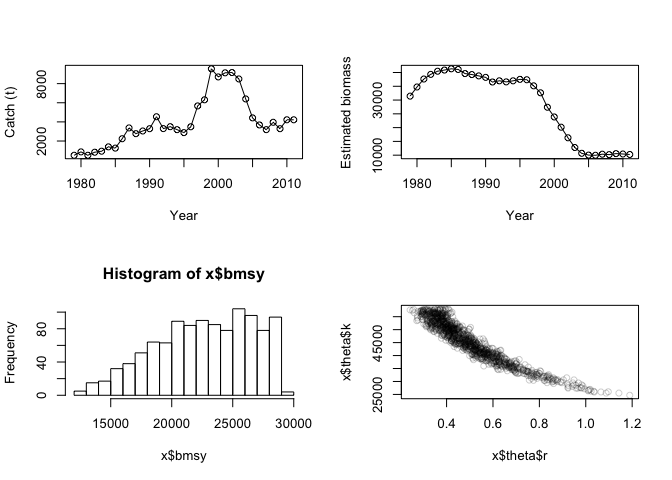
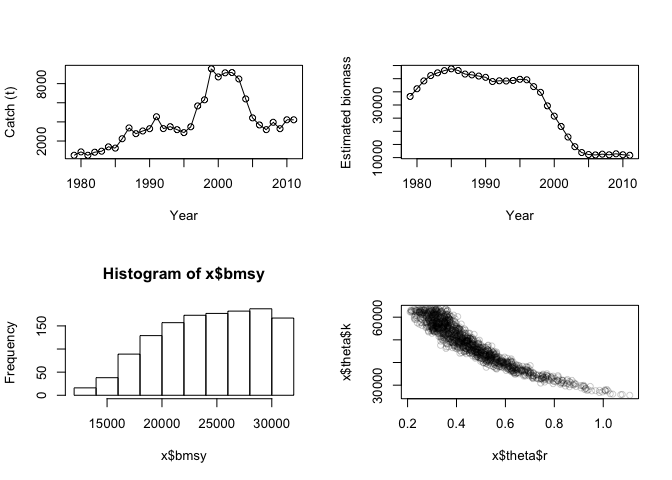
Add citation

diff --git a/README.md b/README.md
@@ -20,25 +20,26 @@ The package implements the methods used in Rosenberg et al. (2014) including the
 -   Catch-MSY based on Martell and Froese (2013); see `?cmsy`
 -   Catch-only method with sample importance resampling based on asconcellos and Cochrane (2005); see `?comsir`
 -   Panel regression in the style of Costello et al. (2012); see `?prm`
--   State-space catch-only model; see `?sscom`
+-   State-space catch-only model from Thorson et al. (2013); see `?sscom`
 
 An example with `cmsy()`
 ------------------------
 
 ``` r
 library("datalimited")
+set.seed(1)
 x <- cmsy(blue_gren$yr, ct = blue_gren$ct, reps = 2e4)
 names(x)
 #> [1] "theta"       "biomass"     "bmsy"        "msy"         "mean_ln_msy"
 #> [6] "bbmsy"
 head(x$theta)
 #>            r        k ell    J
-#> 25 0.6914553 35633.34   1 0.55
-#> 32 0.5277614 42598.74   1 0.55
-#> 38 0.4409560 50077.08   1 0.55
-#> 64 0.5893820 39651.48   1 0.60
-#> 71 0.8300237 31956.33   1 0.50
-#> 95 0.3837625 55542.74   1 0.80
+#> 14 0.4000687 51768.79   1 0.65
+#> 21 0.4982639 42917.72   1 0.50
+#> 24 0.4354341 52793.06   1 0.65
+#> 62 0.4961527 44042.52   1 0.50
+#> 92 0.4505604 46764.53   1 0.65
+#> 96 0.3941562 59326.26   1 0.85
 par(mfrow = c(2, 2))
 plot(blue_gren$yr, blue_gren$ct, type = "o", xlab = "Year", 
   ylab = "Catch (t)")
